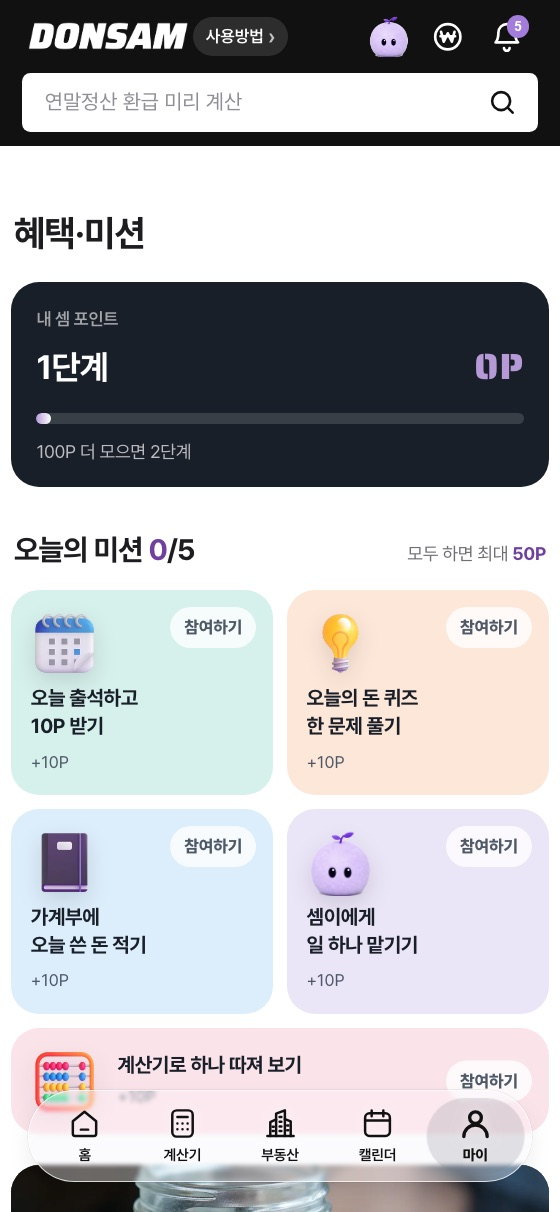
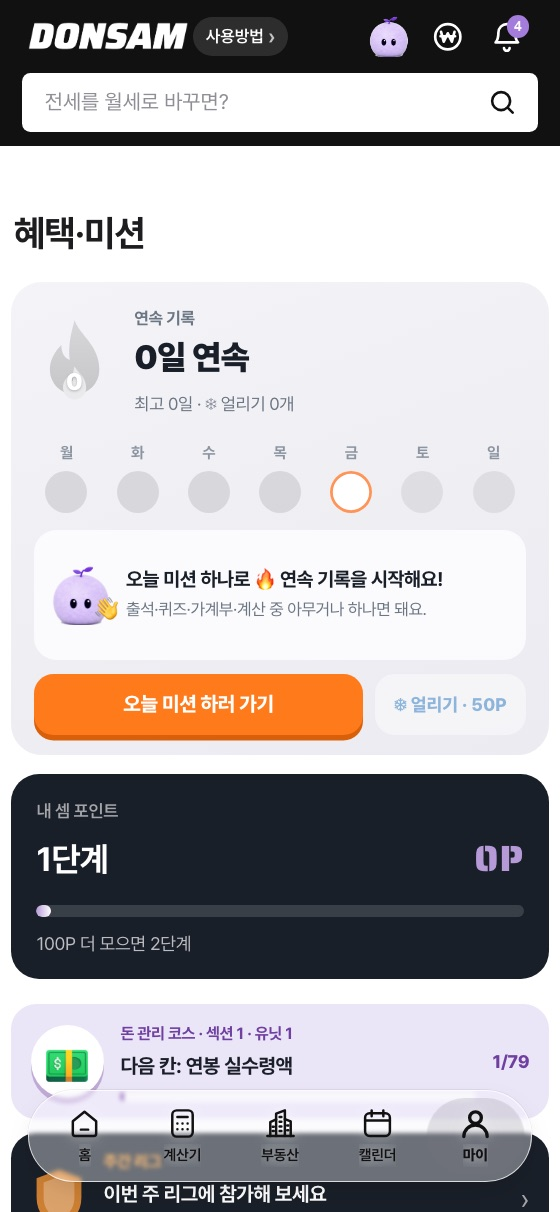
Add files via upload

diff --git a/app.js b/app.js
@@ -4613,6 +4613,7 @@ const GUIDE_FOR = {
   const KEY = 'donsem:how-seen', app = matchMedia('(display-mode: standalone)').matches || navigator.standalone;
   const S = [
     ['처음이라면 돈셈 소개부터 보세요', '돈셈 소개 페이지(doncalculator.com/intro/)에서 화면을 아래로 내리기만 하면 연봉 실수령액·캘린더·셈이·혜택을 한 번에 둘러볼 수 있어요.', '/how/intro.jpg'],
+    ['돈 관리 코스를 게임처럼 깨 보세요', '₩ 혜택·미션의 「돈 관리 코스」에서 섹션 3개·유닛 20개를 한 칸씩 깨면 돈셈 계산기와 기능을 자연스럽게 익혀요. 유닛을 다 깨면 보물 상자에서 30P를 받아요.', '/how/path.jpg'],
     ['궁금한 계산을 골라 주세요', '계산기 메뉴에서 연봉, 대출, 세금 계산기를 찾을 수 있어요.', '/how/1.jpg'],
     ['숫자만 넣으면 바로 계산돼요', '가입도 설치도 필요 없어요. 금액을 바꾸면 결과도 함께 바뀌어요.', '/how/2.jpg'],
     ['캘린더에 쓴 돈을 적어 보세요', '가계부 기록은 이 기기에만 저장되고, 서버로 보내지 않아요.', '/how/3.jpg'],
@@ -4975,6 +4976,8 @@ const PARTNER_LINKS = {
   ];
   const SEC = { 1: ['돈 계산 기초', '생활 속 돈 계산을 하나씩 해 보며 돈셈 계산기와 친해져요.'], 2: ['돈 관리 습관', '출석·캘린더·셈이·자산 기능으로 매일 돈을 챙기는 습관을 만들어요.'], 3: ['돈 고수', '투자·절세·내 집 마련까지, 한 단계 깊은 돈 계산에 도전해요.'] };
   const icon = id => I[id] || `/icons/${id}.webp`;
+  // 유닛마다 다른 셈이 (듀오링고 길 옆 캐릭터처럼)
+  const SEMI = ['coin', 'coffee', 'piggy', 'search', 'house', 'happy', 'idea', 'music', 'sleep', 'book', 'happy', 'book', 'music', 'piggy', 'search', 'idea', 'coin', 'house', 'piggy', 'happy'];
   const data = () => U.map(u => Object.assign({}, u, { d: u.n.map(x => { try { return !!(x[3] ? x[3]() : used(x[2])); } catch (e) { return false; } }) }));
   const OFF = [0, -58, -82, -58, 0, 58, 82, 58];
   window.drawPath = function drawPath() {
@@ -4993,11 +4996,11 @@ const PARTNER_LINKS = {
     nav.innerHTML = [1, 2, 3].map(n => `<a href="#sec-${n}"><b>섹션 ${n}</b><span>${SEC[n][0]}</span><i><u style="width:${secPct(n)}%"></u></i></a>`).join('');
     map.innerHTML = D.map((u, ui) => { const ud = u.d.filter(Boolean).length, full = ud === u.n.length, got = chest[ui];
       const head = u.s !== ps ? (ps = u.s, `<header class="psec" id="sec-${u.s}"><small>SECTION ${u.s}</small><b>섹션 ${u.s} · ${SEC[u.s][0]}</b><p>${SEC[u.s][1]}</p><i><u style="width:${secPct(u.s)}%"></u></i><em>${secPct(u.s)}% 완료</em></header>`) : '';
-      const nodes = u.n.map((x, j) => { const st = u.d[j] ? 'done' : ui === cu && j === cn ? 'cur' : 'lock', off = OFF[(k++) % OFF.length];
+      const nodes = u.n.map((x, j) => { const st = u.d[j] ? 'done' : ui === cu && j === cn ? 'cur' : 'lock', off = [0, 55, 85, 55, 25][j % 5] * (ui % 2 ? 1 : -1); k++;
         return `<a class="pn ${st}" href="${x[2]}" style="--x:${off}px" aria-label="${x[1]}${st === 'done' ? ' (완료)' : ''}">${st === 'cur' ? '<i class="pn-tip">시작!</i>' : ''}<span class="pn-c"><img src="${icon(x[0])}" alt="" width="40" height="40">${st === 'done' ? '<em>✓</em>' : ''}</span><b>${x[1]}</b></a>`; }).join('');
-      const off = OFF[(k++) % OFF.length];
+      const off = 0;
       return `${head}<section class="pu" style="--c:${u.c};--bg:${u.bg}"><header class="pu-h"><small>섹션 ${u.s} · 유닛 ${ui + 1}</small><b>${u.t}</b><em>${ud}/${u.n.length}</em></header>
-        <div class="pu-path"><img class="pu-semi ${ui % 2 ? 'l' : 'r'}" src="${u.semi}" alt="" width="110" height="110" loading="lazy">${nodes}
+        <div class="pu-path"><img class="pu-semi ${ui % 2 ? 'l' : 'r'}" src="/img/semi/${SEMI[ui % SEMI.length]}.png" alt="" width="120" height="120" loading="lazy">${nodes}
         <button type="button" class="pc ${got ? 'open' : full ? 'ready' : ''}" data-u="${ui}" style="--x:${off}px"${got || !full ? ' disabled' : ''}><span>${got ? '🎉' : '🎁'}</span><b>${got ? '받았어요 +30P' : full ? '상자 열기 +30P' : '유닛을 다 깨면 열려요'}</b></button></div></section>`; }).join('');
     map.querySelectorAll('.pc.ready').forEach(b => b.onclick = () => { const ui = +b.dataset.u, c = rd('donsem:path-chest') || {}; if (c[ui]) return; c[ui] = 1; wr('donsem:path-chest', c);
       const p = rd('donsem:points') || { n: 0, got: {} }; p.n = (p.n || 0) + 30; wr('donsem:points', p); say(`🎁 유닛 ${ui + 1} 상자에서 30P를 받았어요!`); drawPath(); });

diff --git a/style.css b/style.css
@@ -4892,3 +4892,10 @@ html[data-theme="dark"] .bn-pts { background: #23232b; box-shadow: 0 0 0 1px rgb
 .psec p { margin: 0 0 12px; font-size: 13.5px; opacity: .75; line-height: 1.5; }
 .psec i { background: rgba(255,255,255,.15); } .psec u { background: linear-gradient(90deg, #B69AD8, #fff); }
 .psec em { display: block; margin-top: 6px; font-style: normal; font-size: 12px; opacity: .7; }
+
+/* ── 11-27 코스 셈이: 길이 한쪽으로 휘면 셈이는 반대쪽 (겹치지 않게) ── */
+.pu-semi { top: 50% !important; width: 112px !important; height: 112px !important; transform: translateY(-50%); filter: drop-shadow(0 12px 10px rgba(30,20,50,.16)); animation: puBob 3.2s ease-in-out infinite; }
+.pu-semi.r { right: 3% !important; left: auto !important; } .pu-semi.l { left: 3% !important; right: auto !important; }
+@keyframes puBob { 50% { transform: translateY(calc(-50% - 6px)); } }
+@media (min-width: 761px) { .pu-semi { width: 150px !important; height: 150px !important; } .pu-semi.r { right: 14% !important; } .pu-semi.l { left: 14% !important; } }
+@media (prefers-reduced-motion: reduce) { .pu-semi { animation: none; } }

diff --git a/sw.js b/sw.js
@@ -1,6 +1,6 @@
 // 돈셈 서비스 워커: 인터넷이 끊겨도 가계부와 계산기가 열리게, 사이트 파일을 기기에 보관해요.
 // 사이트를 고쳐서 올릴 때 VERSION을 바꾸면, 예전 보관 파일을 지우고 새로 받아요.
-const VERSION = 'donsem-2026-11-27-336';
+const VERSION = 'donsem-2026-11-27-337';
 const CORE = ['/', '/budget/', '/assets/', '/fixed/', '/calculators/', '/my/', '/quiz/', '/money-type/', '/no-spend/', '/collection/', '/money-calendar/', '/style.css', '/app.js', '/budget.js', '/assets.js', '/pro.js', '/fixed.js', '/vt.js', '/my.js', '/quiz.js', '/quiz-data.js', '/money-type.js', '/no-spend.js', '/collection.js', '/money-calendar.js', '/hidden-money.js', '/real-estate.js', '/redev.js', '/favicon.svg', '/favicon.ico', '/favicon-32.png', '/favicon-96.png', '/logo-donsam.png', '/logo-d.png', '/icon-192.png', '/manifest.webmanifest', '/kb.json'];
 
 self.addEventListener('install', e => {
